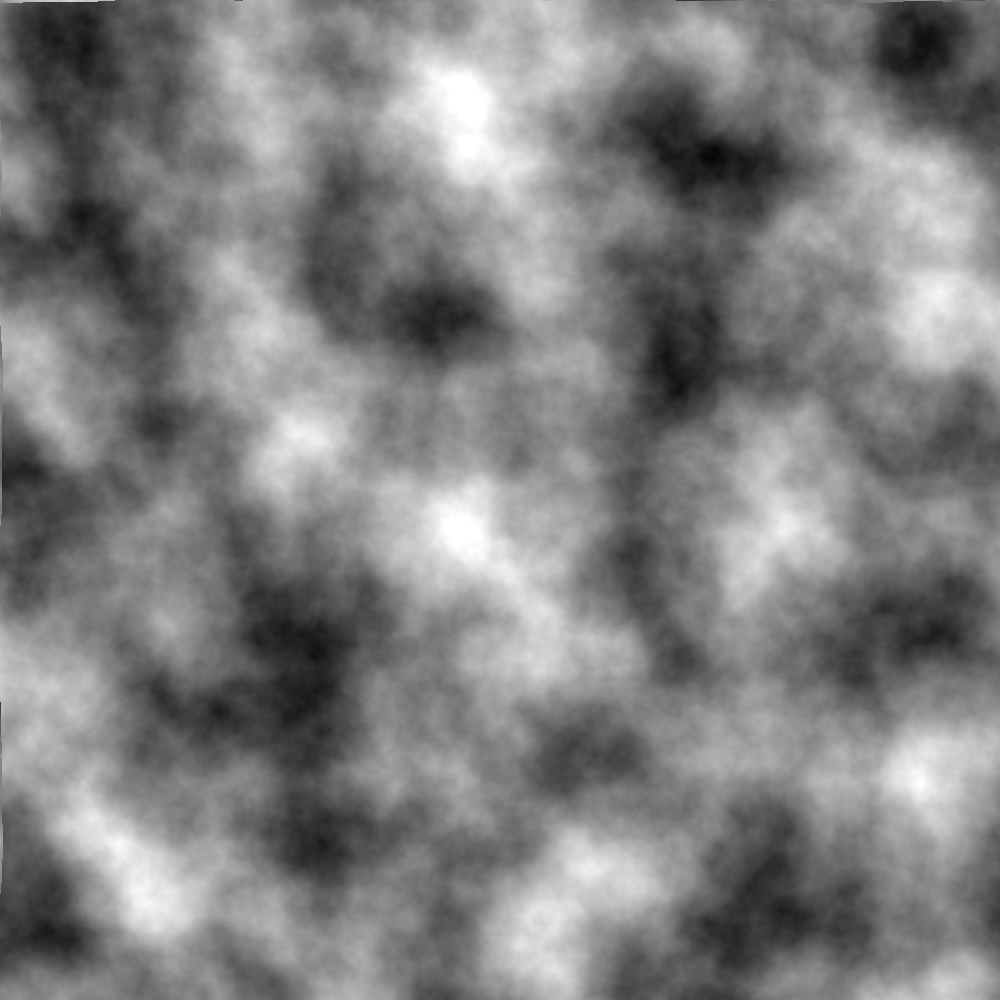
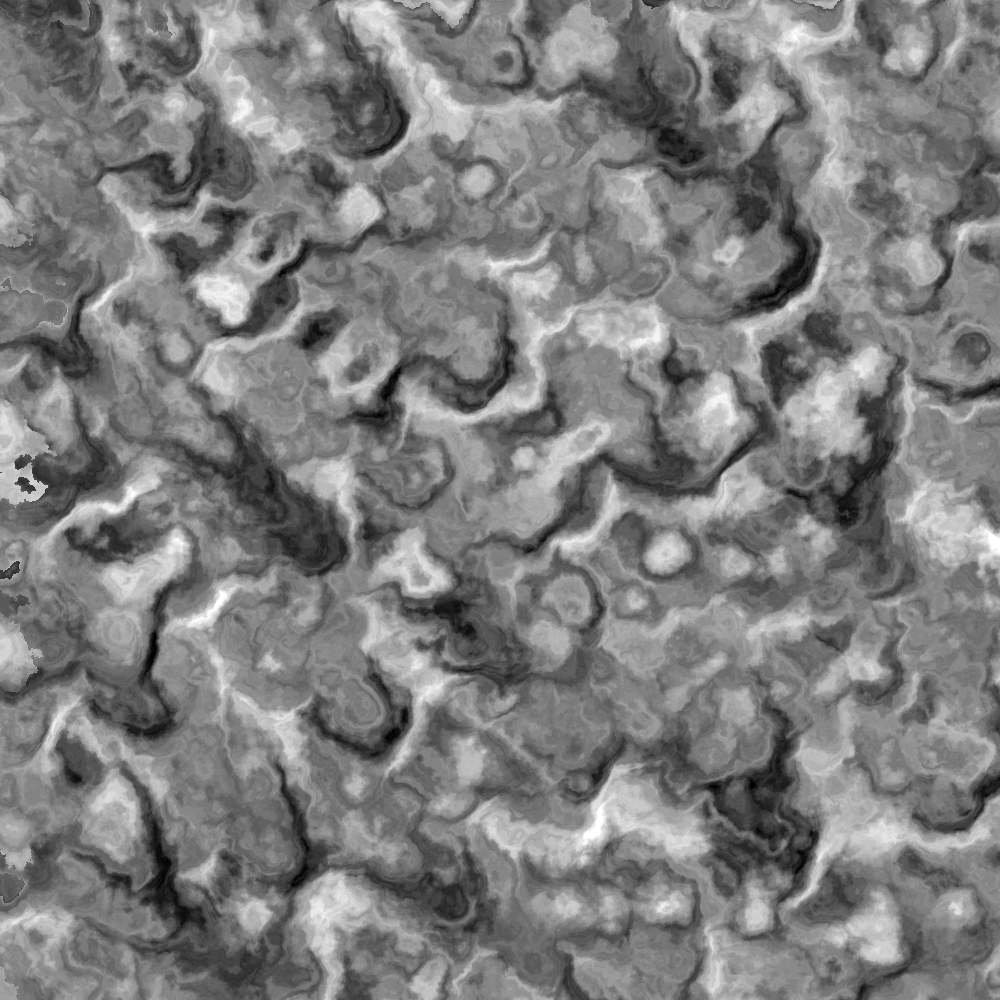
Refactored code and added domain warping

diff --git a/NoiseGenerator/EnhancedPerlinNoise.cs b/NoiseGenerator/EnhancedPerlinNoise.cs
@@ -5,18 +5,14 @@ namespace NoiseGenerator;
 
 public class EnhancedPerlinNoise: INoiseAlgorithms<double, PerlinNoiseParameter>
 {
-    private HeightMap _map;
-    
-    private readonly int _mapSize;
-
     private readonly PerlinNoiseParameter _parameters;
 
-    public EnhancedPerlinNoise(int mapSize, PerlinNoiseParameter parameters)
+    public EnhancedPerlinNoise(PerlinNoiseParameter parameters)
     {
         _parameters = parameters;
-        _mapSize = mapSize;
-        _map = new HeightMap(mapSize);
-        ShufflePermutationTable();
+        if (parameters.ShouldShuffle) {
+          ShufflePermutationTable();
+        }
     }
 
     Vector<double> GetConstantVector(int v)
@@ -42,54 +38,6 @@ public class EnhancedPerlinNoise: INoiseAlgorithms<double, PerlinNoiseParameter>
         }
     }
 
-    public void GenerateNoise()
-    {
-        var map = _map.GetMapReference();
-        Parallel.For(0, GetMapSize(), y =>
-        {
-            //for (var y = 0; y < GetMapSize(); ++y)
-            for (var x = 0; x < GetMapSize(); ++x)
-            {
-                double n;
-                if (!_parameters.UsesBrownianMotion)
-                {
-                    n = GenerateNoiseOnPoint(x * _parameters.Frequency.X, y * _parameters.Frequency.X);
-                }
-                else
-                { 
-                    n = GenerateFractalBrownianMotionOnPoint(x, y, 8);
-                    var q0 = GenerateFractalBrownianMotionOnPoint(x, y, 8);
-                    var q1 = GenerateFractalBrownianMotionOnPoint(x + 100, y + 130, 8);
-                    var r0 = GenerateFractalBrownianMotionOnPoint(x + 6*q0 + 17, y + 92 + 4*q1, 8);
-                    var r1 = GenerateFractalBrownianMotionOnPoint(x + 6*q0 + 83, y + 4 * q1 + 28, 8);
-                    n = GenerateFractalBrownianMotionOnPoint(x + 4 * r0, y + 4 * r1, 8);
-                }
-
-                n += 1.0;
-                n *= 0.5;
-
-                int c = (int)Math.Round(255 * n);
-                if (c > 255) {
-                  c = 255;
-                } else if (c < 0) {
-                  c = 0;
-                }
-                map[y, x] = c;
-
-            }
-        });
-    }
-
-    public HeightMap GetNoiseMap()
-    {
-        return _map;
-    }
-
-    public int GetMapSize()
-    {
-        return _mapSize;
-    }
-
     private double Lerp(double t, double a, double b)
     {
         return a + t * (b - a);
@@ -100,8 +48,10 @@ public class EnhancedPerlinNoise: INoiseAlgorithms<double, PerlinNoiseParameter>
         return ((6 * t - 15) * t + 10) * t * t * t;
     }
 
-    double GenerateNoiseOnPoint(double x, double y)
+    public double GenerateNoiseOnPoint(double x, double y)
     {
+        x *= _parameters.Frequency.X;
+        y *= _parameters.Frequency.Y;
         var xWrap = (int)Math.Floor(x) & 255;
         var yWrap = (int)Math.Floor(y) & 255;
         
@@ -132,25 +82,6 @@ public class EnhancedPerlinNoise: INoiseAlgorithms<double, PerlinNoiseParameter>
             Lerp(v, dotBottomRight, dotTopRight));
     }
 
-    public double GenerateFractalBrownianMotionOnPoint(double x, double y, int octaves)
-    {
-        var result = 0.0;
-        var amplitude = 1.0;
-        var frequency = 0.005;
-
-        for (var octave = 0; octave < octaves; ++octave)
-        {
-            var noise = GenerateNoiseOnPoint(x * frequency, y * frequency);
-            var n = amplitude * noise;
-            result += n;
-
-            frequency *= _parameters.Persistency;
-            amplitude *= _parameters.Lacunarity;
-        }
-
-        return result;
-    }
-    
     private int[] _table = new int[512] { 151,160,137,91,90,15,
         131,13,201,95,96,53,194,233,7,225,140,36,103,30,69,142,8,99,37,240,21,10,23,
         190, 6,148,247,120,234,75,0,26,197,62,94,252,219,203,117,35,11,32,57,177,33,
@@ -164,18 +95,19 @@ public class EnhancedPerlinNoise: INoiseAlgorithms<double, PerlinNoiseParameter>
         251,34,242,193,238,210,144,12,191,179,162,241, 81,51,145,235,249,14,239,107,
         49,192,214, 31,181,199,106,157,184, 84,204,176,115,121,50,45,127, 4,150,254,
         138,236,205,93,222,114,67,29,24,72,243,141,128,195,78,66,215,61,156,180,151,
-        160,137,91,90,15,131,13,201,95,96,53,194,233,7,225,140,36,103,30,69,142,8,99,
-        37,240,21,10,23,190, 6,148,247,120,234,75,0,26,197,62,94,252,219,203,117,35,
-        11,32,57,177,33,88,237,149,56,87,174,20,125,136,171,168, 68,175,74,165,71,134,
-        139,48,27,166,77,146,158,231,83,111,229,122,60,211,133,230,220,105,92,41,55,
-        46,245,40,244,102,143,54, 65,25,63,161, 1,216,80,73,209,76,132,187,208,89,
-        18,169,200,196,135,130,116,188,159,86,164,100,109,198,173,186,3,64,52,217,
-        226,250,124,123,5,202,38,147,118,126,255,82,85,212,207,206,59,227,47,16,58,
-        17,182,189,28,42,223,183,170,213,119,248,152, 2,44,154,163, 70,221,153,101,155,
-        167, 43,172,9,129,22,39,253, 19,98,108,110,79,113,224,232,178,185, 112,104,218,
-        246,97,228,251,34,242,193,238,210,144,12,191,179,162,241, 81,51,145,235,249,14,
-        239,107,49,192,214, 31,181,199,106,157,184, 84,204,176,115,121,50,45,127,4,150,
-        254,138,236,205,93,222,114,67,29,24,72,243,141,128,195,78,66,215,61,156,180
+        160,137,91,90,15,131,13,201,95,96,53,194,233, 7,225,140,36,103,30,69,142, 8,
+        99,37,240,21,10,23,190, 6,148,247,120,234,75,0,26,197,62,94,252,219,203,117,
+        35,11,32,57,177,33,88,237,149, 56, 87,174,20,125,136,171,168, 68,175,74,165,
+        71,134,139,48,27,166,77,146,158,231, 83,111,229,122, 60,211,133,230,220,105,
+        92,41,55,46,245,40,244,102,143,54, 65,25,63,161, 1,216,80,73,209,76,132,187,
+        208,89, 18,169,200,196,135,130,116,188,159,86,164,100,109,198,173,186, 3,64,
+        52,217,226,250,124,123,5,202,38,147,118,126,255,82,85,212,207,206,59,227,47,
+        16,58,17,182,189,28,42,223,183,170,213,119,248,152, 2,44,154,163,70,221,153,
+        101,155,167,43,172,9,129,22,39,253,19,98,108,110,79,113,224,232,178,185,112,
+        104,218,246,97,228,251,34,242,193,238,210,144,12,191,179,162,241, 81,51,145,
+        235,249,14,239,107,49,192,214,31,181,199,106,157,184, 84,204,176,115,121,50,
+        45,127,4,150,254,138,236,205,93,222,114, 67,29, 24,72,243,141,128,195,78,66,
+        215,61,156,180
     };
     
 }

diff --git a/NoisePresentation/MapBitmapDrawer.cs b/NoisePresentation/MapBitmapDrawer.cs
@@ -12,9 +12,9 @@ public unsafe class MapBitmapDrawer
     {
     }
 
-    public void ToBitmap(HeightMap heightMap)
+    public void ToBitmap(NoiseMap<double> noiseMap)
     {
-        var rawImage = heightMap.GetMapReference();
+        var rawImage = noiseMap.GetMapReference();
         int width = rawImage.GetLength(1);
         int height = rawImage.GetLength(0);
 
@@ -26,7 +26,18 @@ public unsafe class MapBitmapDrawer
                 for (int x = 0; x < width; x++)
                 {
                     // Assuming the values in the array represent color intensities (0-255)
-                    var colorNum = (byte)rawImage[y, x];
+                    var n = rawImage[x, y];
+                    n += 1.0;
+                    n *= 0.5;
+
+                    int c = (int)Math.Round(255 * n);
+                    if (c > 255) {
+                      c = 255;
+                    } else if (c < 0) {
+                      c = 0;
+                    }
+
+                    var colorNum = (byte)c;
                     
                     var color = new Rgba32(colorNum, colorNum, colorNum, 255);
                     image[x, y] = color;

diff --git a/NoiseGenerator/BrownianMotionParameter.cs b/NoiseGenerator/BrownianMotionParameter.cs
@@ -1,0 +1,33 @@
+namespace NoiseGenerator;
+
+public class BrownianMotionParameter: INoiseParameter
+{
+    public double Lacunarity { get; set; } = 0.5;
+
+    public double Persistency { get; set; } = 2.0;
+
+    public double Octaves { get; set; } = 8;
+
+    public Func<double, double, double> NoiseFn { get; set; }
+
+    public BrownianMotionParameter(Func<double, double, double> noiseFn)
+    {
+      NoiseFn = noiseFn;
+    }
+
+    public BrownianMotionParameter SetLacunarity(double lacunarity) {
+      Lacunarity = lacunarity;
+      return this;
+    }
+
+    public BrownianMotionParameter SetOctaves(int octaves) {
+      Octaves = octaves;
+      return this;
+    }
+
+    public BrownianMotionParameter SetPersistency(double persistency) {
+      Persistency = persistency;
+      return this;
+    }
+    
+}

diff --git a/NoiseGenerator/PerlinNoiseParameter.cs b/NoiseGenerator/PerlinNoiseParameter.cs
@@ -2,16 +2,21 @@ namespace NoiseGenerator;
 
 public class PerlinNoiseParameter: INoiseParameter
 {
-    public PerlinNoiseParameter(bool usesBrownianMotion)
+    public PerlinNoiseParameter()
     {
-        UsesBrownianMotion = usesBrownianMotion;
     }
 
-    public bool UsesBrownianMotion { get; set; }
+    public PerlinNoiseParameter SetFrequency(Frequency frequency) {
+      Frequency = frequency;
+      return this;
+    }
 
-    public double Lacunarity { get; set; } = 0.5;
+    public PerlinNoiseParameter SetShouldShuffle(bool shouldShuffle) {
+      ShouldShuffle = shouldShuffle;
+      return this;
+    }
 
-    public double Persistency { get; set; } = 2.0;
+    public bool ShouldShuffle { get; set; } = false;
 
     public Frequency Frequency { get; set; } = new Frequency(0.01, 0.01);
 }

diff --git a/NoiseGenerator/BrownianMotion.cs b/NoiseGenerator/BrownianMotion.cs
@@ -1,0 +1,28 @@
+namespace NoiseGenerator;
+
+public class BrownianMotion: INoiseAlgorithms<double, BrownianMotionParameter>
+{
+    public BrownianMotionParameter _parameters;
+
+    public BrownianMotion(BrownianMotionParameter parameters)
+    {
+      _parameters = parameters;
+    }
+
+    public double GenerateNoiseOnPoint(double x, double y)
+    {
+        var result = 0.0;
+        var amplitude = 1.0;
+        var frequency = 1.0;
+
+        for (var octave = 0; octave < _parameters.Octaves; ++octave)
+        {
+            result += amplitude * _parameters.NoiseFn(x * frequency, y * frequency);
+
+            amplitude *= _parameters.Lacunarity;
+            frequency *= _parameters.Persistency;
+        }
+
+        return result;
+    }
+}

diff --git a/NoiseGenerator/DomainWarping.cs b/NoiseGenerator/DomainWarping.cs
@@ -1,0 +1,22 @@
+namespace NoiseGenerator;
+
+public class DomainWarping : INoiseAlgorithms<double, DomainWarpingParameter>
+{
+    private DomainWarpingParameter _parameters;
+
+    public DomainWarping(DomainWarpingParameter parameters)
+    {
+      _parameters = parameters;
+    }
+
+    public double GenerateNoiseOnPoint(double x, double y)
+    {
+        double offsetX = 7 * 10;
+        double offsetY = 1.3 * 10;
+        double qx = _parameters.Fn(x, y);
+        double qy = _parameters.Fn(x + offsetX, y + offsetY);
+        double rx = _parameters.Fn(x + 2.0*qx + 1.7, y + 2.0*qy + 9.2);
+        double ry = _parameters.Fn(x + 2.0*qx + 8.3, y + 2.0*qy + 2.8);
+        return _parameters.Fn(x + 80*rx, y + 70*ry);
+    }
+}

diff --git a/NoiseGenerator/NoiseMap.cs b/NoiseGenerator/NoiseMap.cs
@@ -1,0 +1,36 @@
+namespace NoiseGenerator;
+
+public class NoiseMap<T>
+{
+    private T[,] _map;
+
+    private int _mapSize;
+
+    private Func<T, T, T>? _method;
+
+    public NoiseMap(int mapSize)
+    {
+        _mapSize = mapSize;
+        _map = new T[mapSize, mapSize];
+    }
+
+    public NoiseMap<T> AddProcess(Func<T, T, T> fn) {
+      _method = fn;
+      return this;
+    }
+
+    public void GenerateNoise() {
+          Parallel.For(0, _mapSize, y => {
+              for (dynamic x = 0; x < _mapSize; ++x)
+              {
+                  _map[x,y] = _method(x, (dynamic)y);
+              }
+          });
+    }
+
+    public T[,] GetMapReference()
+    {
+        return _map;
+    }
+    
+}

diff --git a/NoisePresentation/Program.cs b/NoisePresentation/Program.cs
@@ -3,8 +3,11 @@
 using NoiseGenerator;
 using NoisePresentation;
 
-var perlin = new EnhancedPerlinNoise(1000, new PerlinNoiseParameter(true));
-perlin.GenerateNoise();
-HeightMap noiseMap = perlin.GetNoiseMap();
+var map = new NoiseMap<double>(1000);
+var perlin = new EnhancedPerlinNoise(new PerlinNoiseParameter().SetShouldShuffle(true));
+var brownian = new BrownianMotion(new BrownianMotionParameter(perlin.GenerateNoiseOnPoint).SetOctaves(8));
+var domainWarping = new DomainWarping(new DomainWarpingParameter(brownian.GenerateNoiseOnPoint));
+map.AddProcess(domainWarping.GenerateNoiseOnPoint);
+map.GenerateNoise();
 var drawer = new MapBitmapDrawer();
-drawer.ToBitmap(noiseMap);
+drawer.ToBitmap(map);

diff --git a/NoiseGenerator/INoiseAlgorithm.cs b/NoiseGenerator/INoiseAlgorithm.cs
@@ -1,12 +1,7 @@
 namespace NoiseGenerator;
 
-public interface INoiseAlgorithms<out TO, T>
+public interface INoiseAlgorithms<TO, T>
 where T: INoiseParameter
 {
-    void GenerateNoise();
-
-    HeightMap GetNoiseMap();
-
-    int GetMapSize();
-
+    TO GenerateNoiseOnPoint(TO x, TO y);
 }

diff --git a/NoiseGenerator/DomainWarpingParameter.cs b/NoiseGenerator/DomainWarpingParameter.cs
@@ -1,0 +1,12 @@
+namespace NoiseGenerator;
+
+public class DomainWarpingParameter: INoiseParameter {
+
+    public Func<double, double, double> Fn { get; set; }
+
+    public DomainWarpingParameter(Func<double, double, double> method)
+    {
+      Fn = method;
+    }
+}
+

diff --git a/NoiseGenerator/IPostProcessNoiseAlgorithms.cs b/NoiseGenerator/IPostProcessNoiseAlgorithms.cs
@@ -1,0 +1,7 @@
+namespace NoiseGenerator;
+
+public interface IPostProcessNoiseAlgorithms<TO, T>
+where T: INoiseParameter
+{
+    TO GenerateNoise(TO x, TO y, Func<double, double, double> fn);
+}
